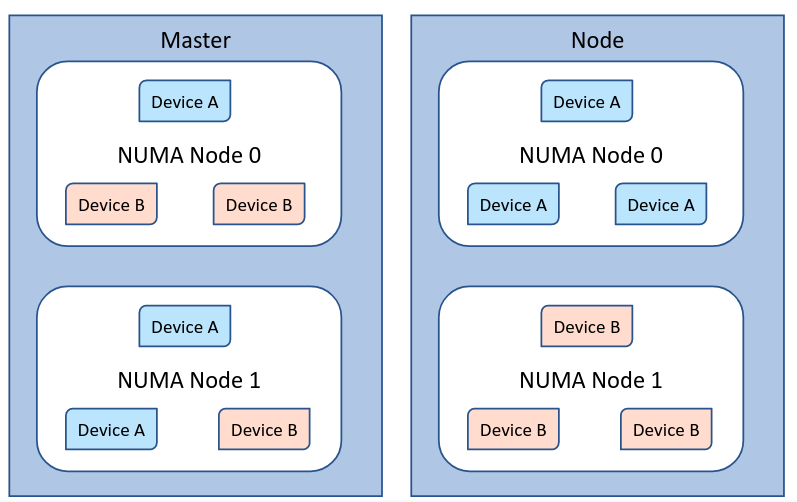
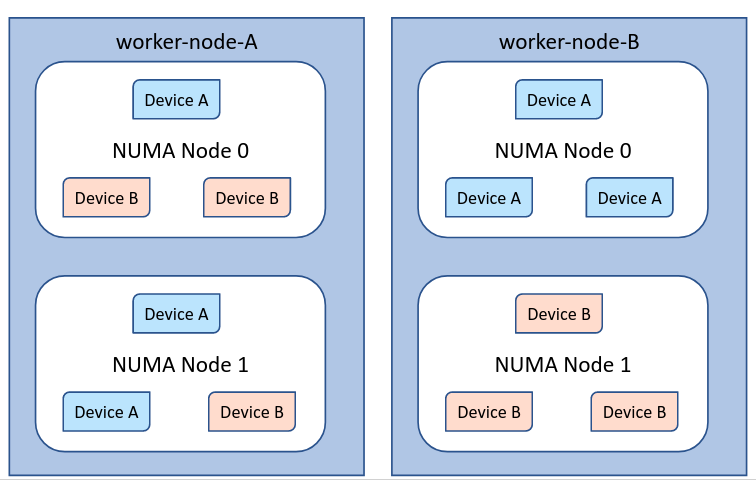
Updates to README.md based on review comments

diff --git a/pkg/noderesourcetopology/README.md b/pkg/noderesourcetopology/README.md
@@ -56,10 +56,10 @@ The hardware topology corresponding to both the nodes is represented by the belo
 apiVersion: topology.node.k8s.io/v1alpha1
 kind: NodeResourceTopology
 metadata:
-  name: worker-node-a
+  name: worker-node-A
 topologyPolicies: ["SingleNUMANode"]
 zones:
-  - name: node-0
+  - name: numa-node-0
     type: Node
     resources:
       - name: cpu
@@ -71,7 +71,7 @@ zones:
       - name: example.com/deviceB
         capacity: 2
         allocatable: 2
-  - name: node-1
+  - name: numa-node-1
     type: Node
     resources:
       - name: cpu
@@ -90,10 +90,10 @@ zones:
 apiVersion: topology.node.k8s.io/v1alpha1
 kind: NodeResourceTopology
 metadata:
-  name: worker-node-b
+  name: worker-node-B
 topologyPolicies: ["SingleNUMANode"]
 zones:
-  - name: node-0
+  - name: numa-node-0
     type: Node
     resources:
       - name: cpu
@@ -102,7 +102,7 @@ zones:
       - name: example.com/deviceA
         capacity: 3
         allocatable: 3
-  - name: node-1
+  - name: numa-node-1
     type: Node
     resources:
       - name: cpu
@@ -135,11 +135,11 @@ zones:
              $ kubectl get noderesourcetopologies.topology.node.k8s.io
             ```
 
-         1. Deploy the CRs representative of the hardware topology of the worker node a and b:
+         1. Deploy the CRs representative of the hardware topology of the worker-node-A and worker-node-B:
 
             ```bash
-             $ kubectl create -f node-a-crd.yaml
-             $ kubectl create -f node-b-crd.yaml
+             $ kubectl create -f worker-node-A.yaml
+             $ kubectl create -f worker-node-B.yaml
             ```
 
 - Copy cluster kubeconfig file to /etc/kubernetes/scheduler.conf
@@ -224,14 +224,14 @@ spec:
   deployment.apps/test-deployment created
   ```
 
-- The test-deployment pod should be scheduled on the worker node a node
+- The test-deployment pod should be scheduled on the worker-node-A node
 
   ```script
   $ kubectl get pods -o wide
   NAME                               READY   STATUS    RESTARTS   AGE     IP           NODE                 NOMINATED NODE   READINESS GATES
-  device-plugin-a-ds-9bpsj           1/1     Running   0          3h13m   172.17.0.3   worker-node-b          <none>           <none>
-  device-plugin-a-ds-dv55t           1/1     Running   0          3h13m   172.17.0.2   worker-node-a          <none>           <none>
-  device-plugin-b-ds-8t7lh           1/1     Running   0          3h13m   172.17.0.2   worker-node-a          <none>           <none>
-  device-plugin-b-ds-lt4pr           1/1     Running   0          3h13m   172.17.0.3   worker-node-b          <none>           <none>
-  test-deployment-6dccf65ddb-pkg9j   1/1     Running   0          18s     172.17.0.2   worker-node-a          <none>           <none>
+  device-plugin-a-ds-9bpsj           1/1     Running   0          3h13m   172.17.0.3   worker-node-B          <none>           <none>
+  device-plugin-a-ds-dv55t           1/1     Running   0          3h13m   172.17.0.2   worker-node-A          <none>           <none>
+  device-plugin-b-ds-8t7lh           1/1     Running   0          3h13m   172.17.0.2   worker-node-A          <none>           <none>
+  device-plugin-b-ds-lt4pr           1/1     Running   0          3h13m   172.17.0.3   worker-node-B          <none>           <none>
+  test-deployment-6dccf65ddb-pkg9j   1/1     Running   0          18s     172.17.0.2   worker-node-A          <none>           <none>
   ```
